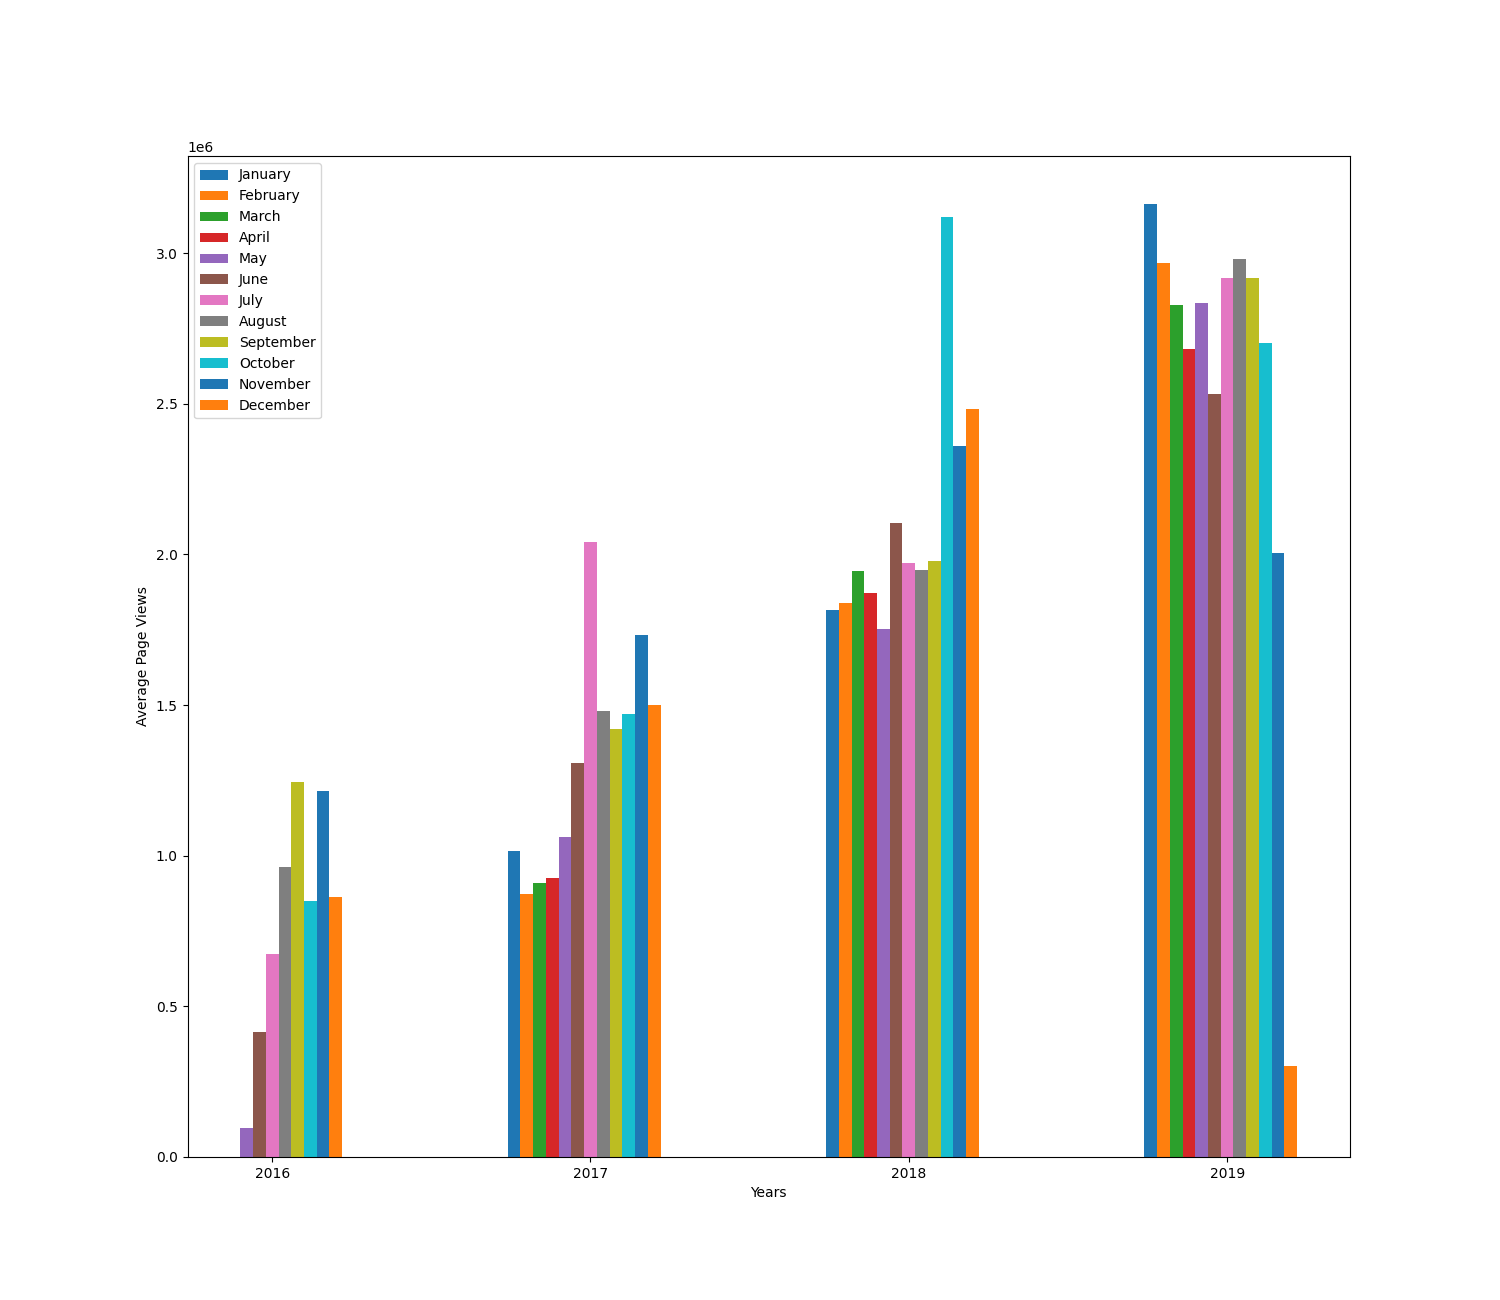
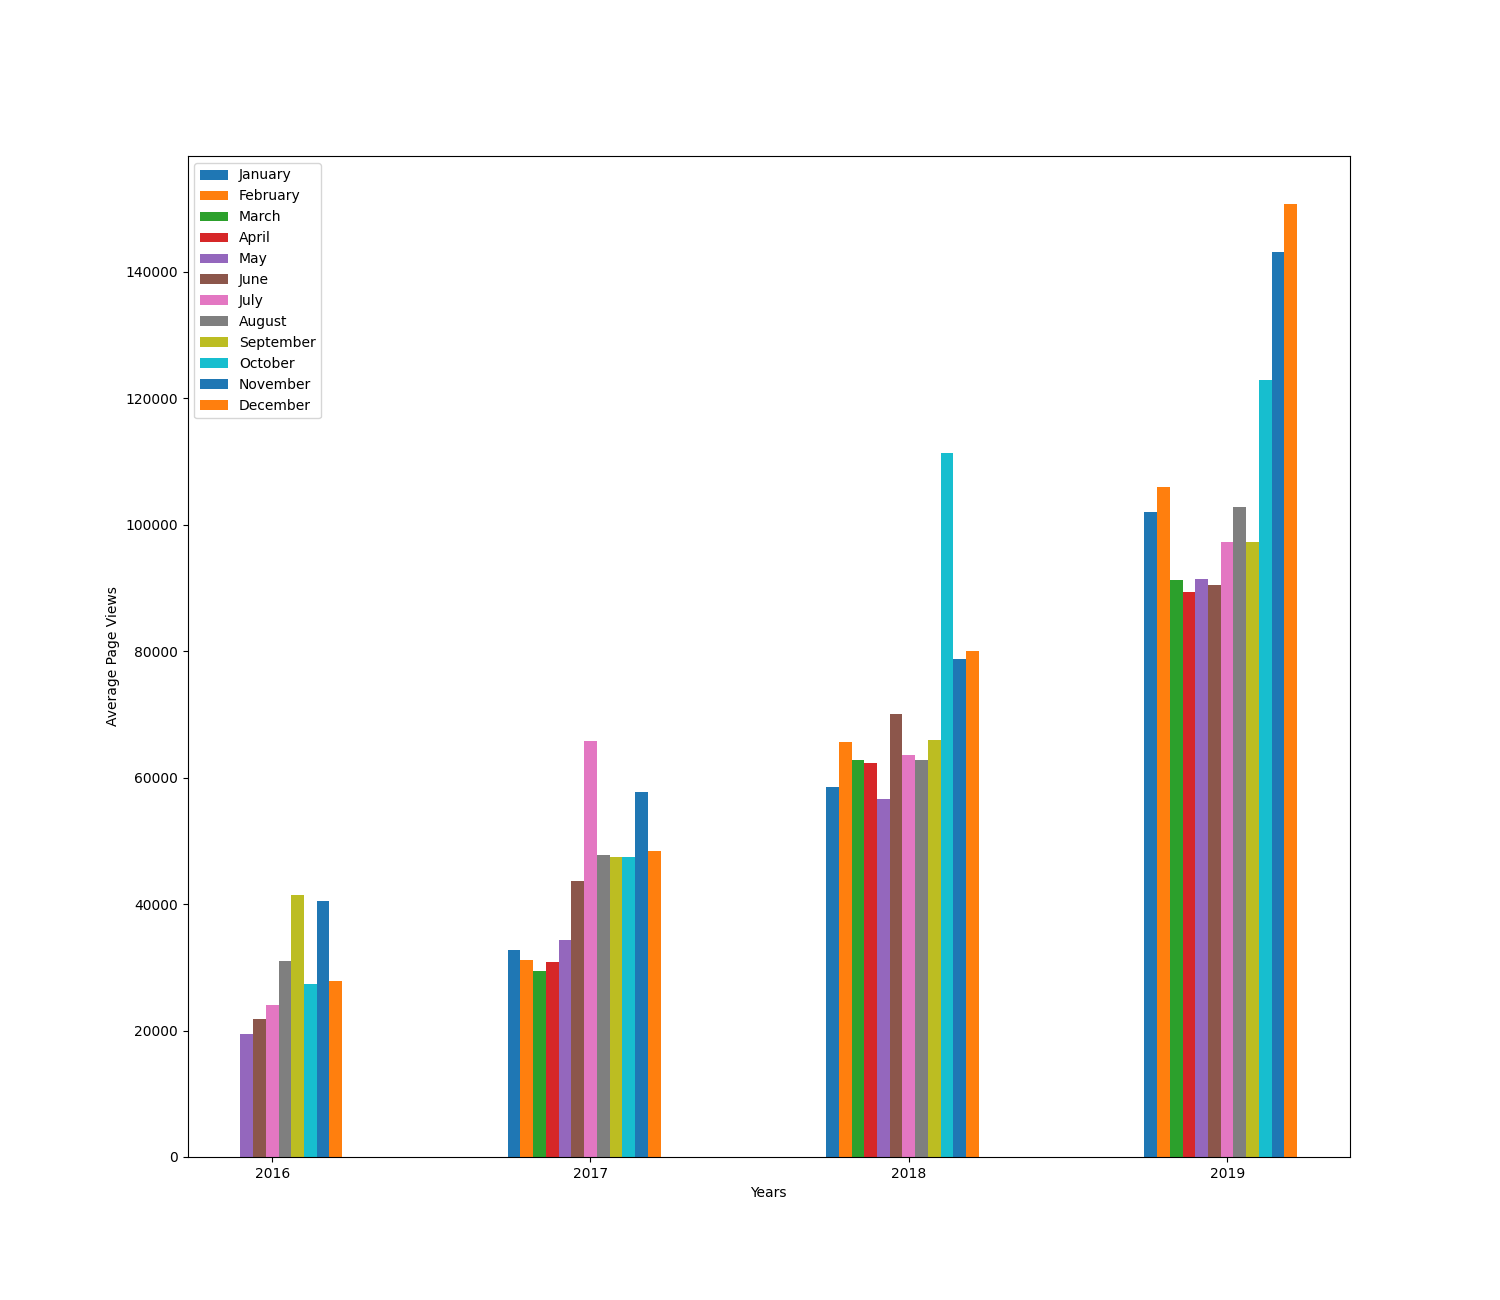
in progress

diff --git a/time_series_visualizer.py b/time_series_visualizer.py
@@ -36,11 +36,12 @@ def draw_bar_plot():
     df_bar['year'] = [d.year for d in df_bar.date]
     df_bar['month'] = [d.strftime('%B') for d in df_bar.date]
     
-    dfg_bar = df_bar.groupby(['year', 'month']).sum('value').reset_index()
+    dfg_bar = df_bar.groupby(['year', 'month']).mean('value').reset_index()
 
     print(dfg_bar)
 
-    #dfg_bar["value"] = dfg_bar["value"].astype('Int64')
+    dfg_bar["value"] = dfg_bar["value"].astype('int')
+
     #print(dfg_bar)
 
     dfg_bar = dfg_bar.pivot(index='year', columns='month', values='value')
@@ -70,22 +71,6 @@ def draw_bar_plot():
     plt.xlabel("Years") 
     plt.ylabel("Average Page Views") 
     plt.legend(['January', 'February', 'March', 'April', 'May', 'June', 'July', 'August', 'September', 'October', 'November', 'December'], loc='upper left') 
-
-
-    
-
-    # # Draw bar plot
-    # # plot data in grouped manner of bar type 
-    # plt.bar(x-0.2, y1, width, color='cyan') 
-    # plt.bar(x, y2, width, color='orange') 
-    # plt.bar(x+0.2, y3, width, color='green') 
-    # plt.xticks(x, ['Team A', 'Team B', 'Team C', 'Team D', 'Team E']) 
-    # plt.xlabel("Teams") 
-    # plt.ylabel("Scores") 
-    # plt.legend(["Round 1", "Round 2", "Round 3"]) 
-    # plt.show() 
-
-
     
 
     # Save image and return fig (don't change this part)
